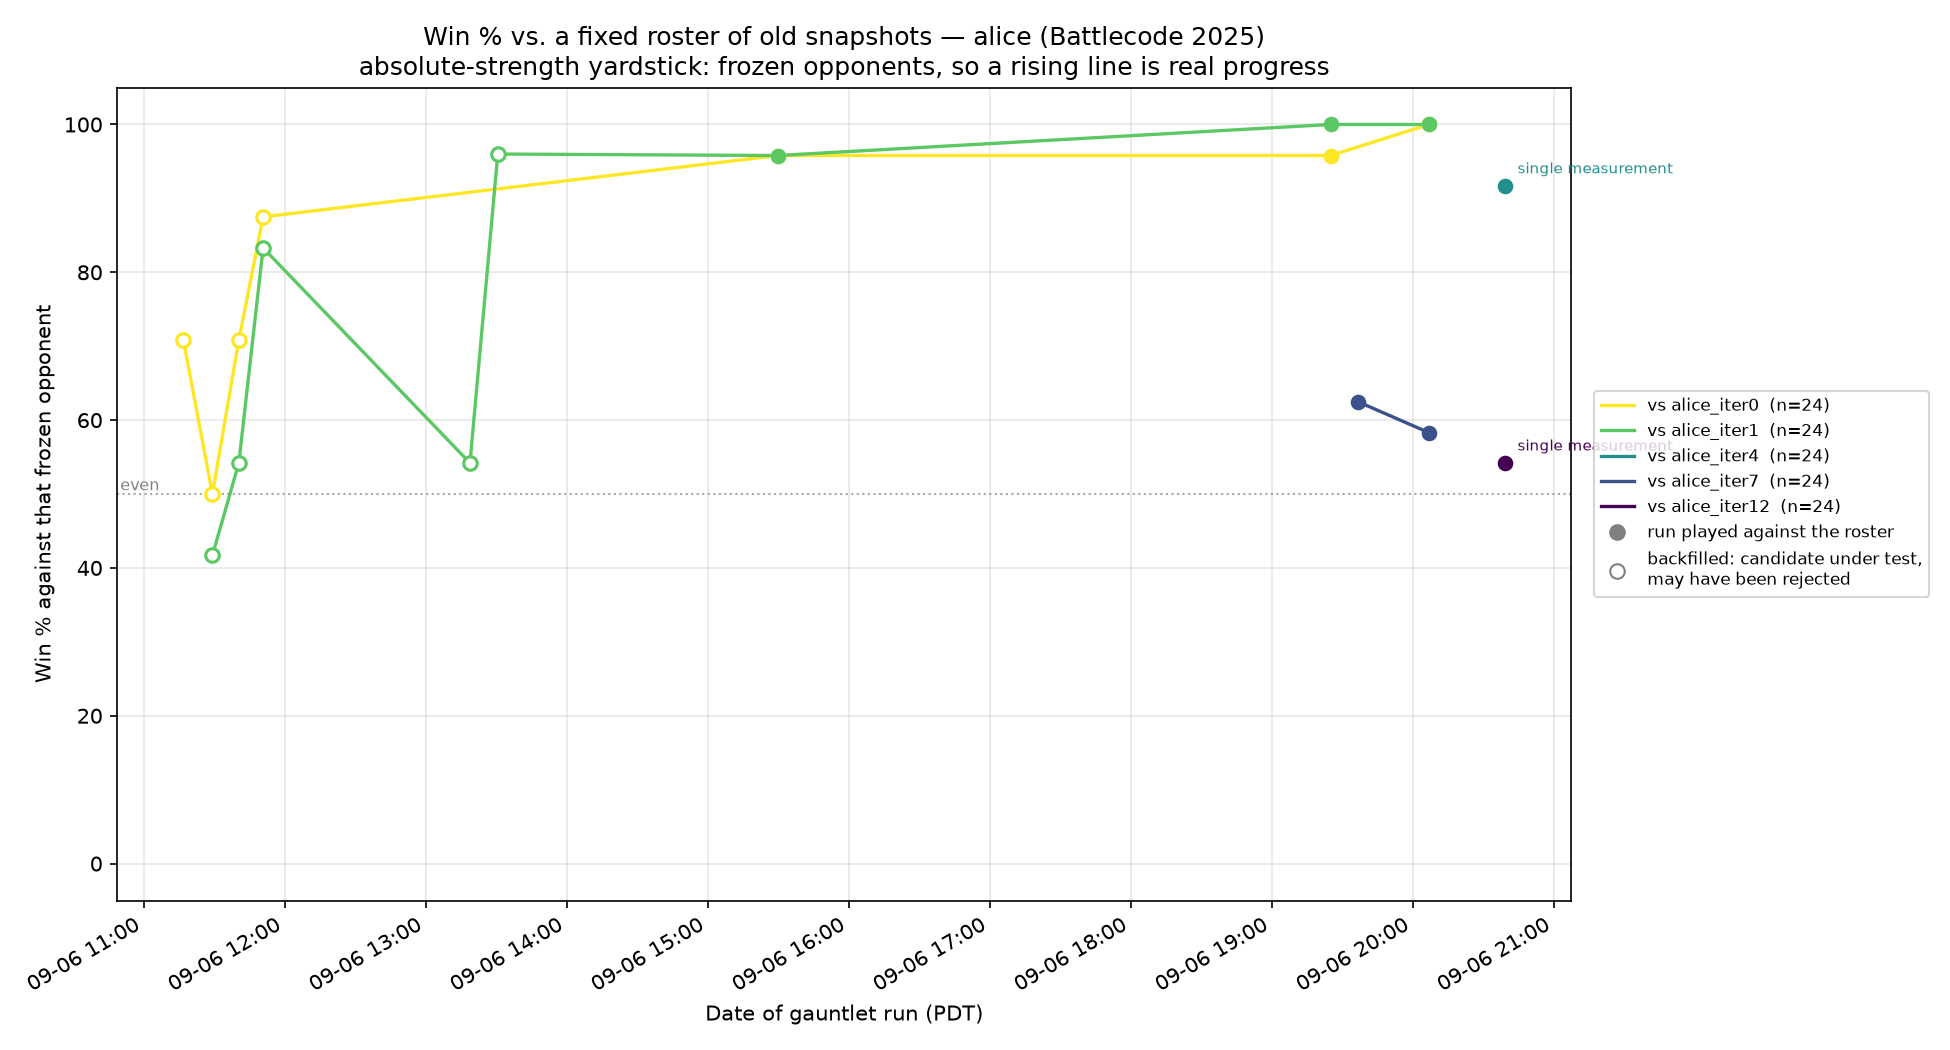
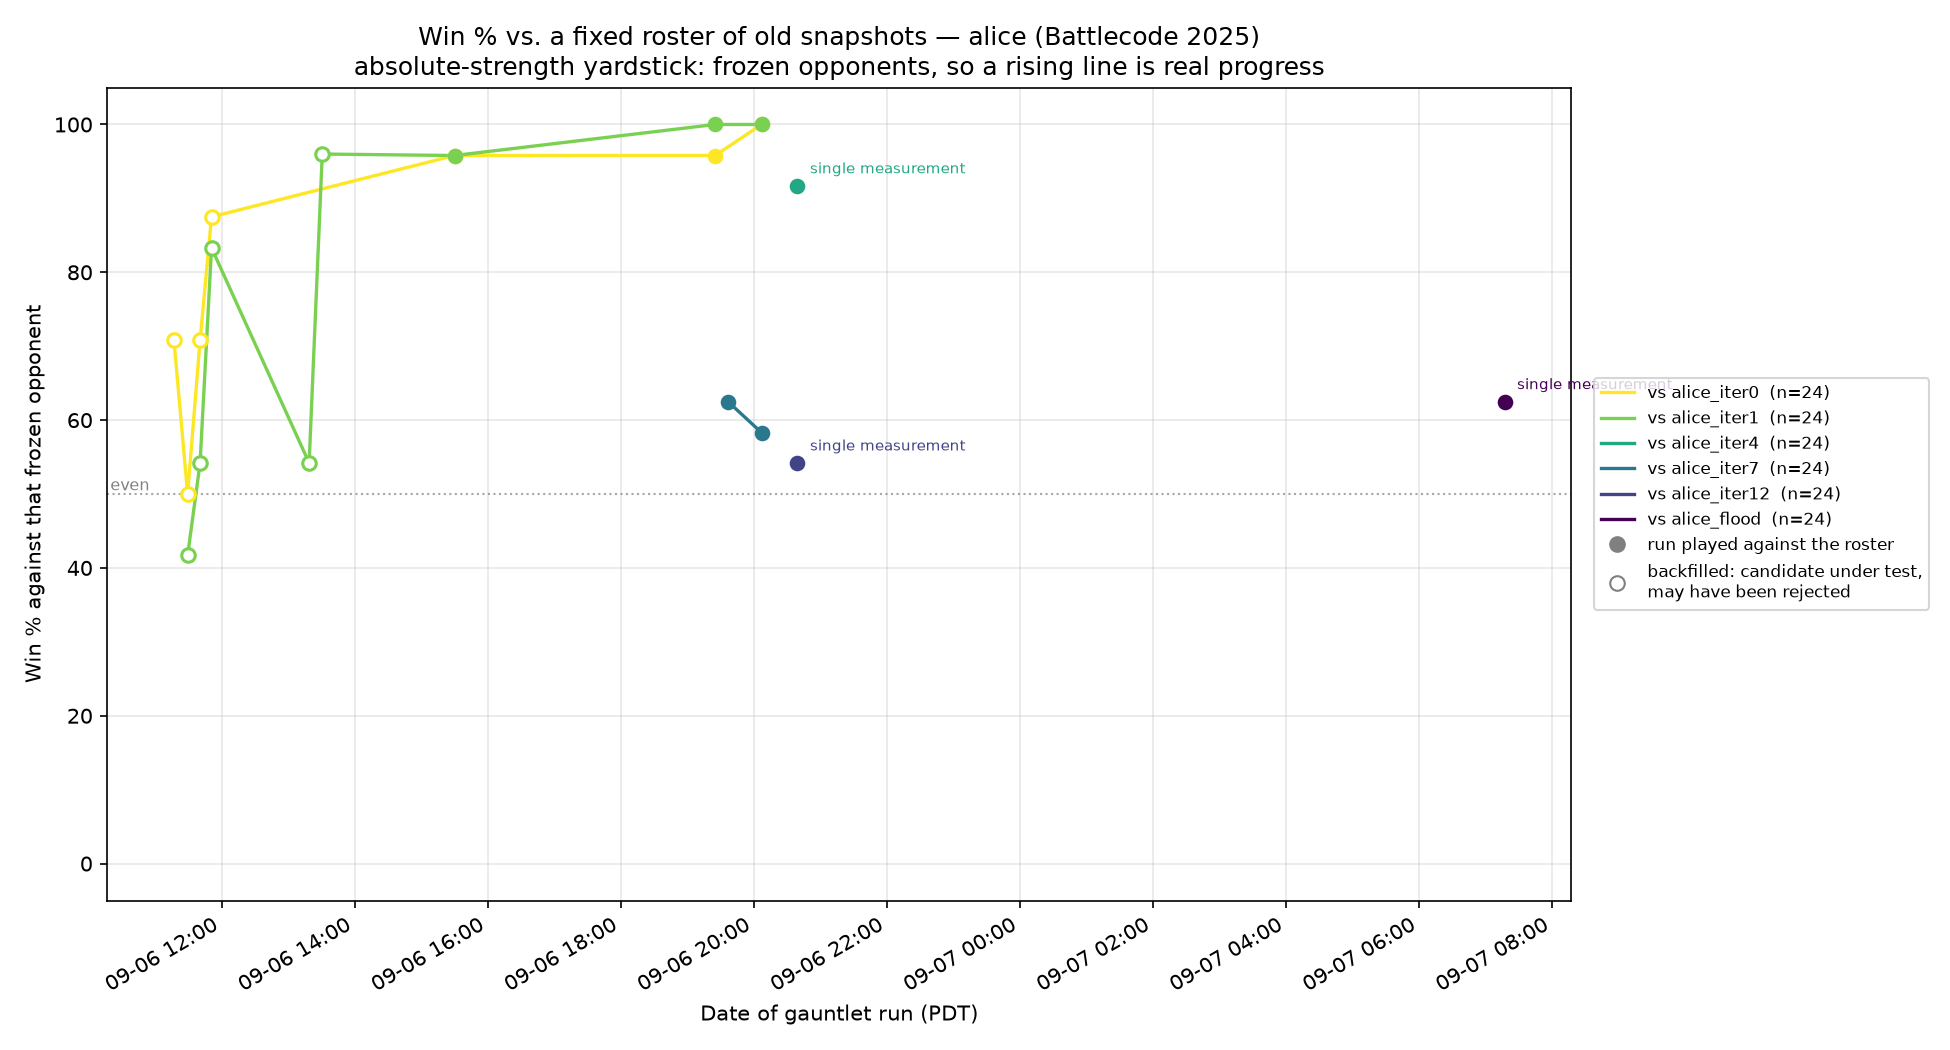
alice: alice_flood's first roster point refutes the story I built it to test
alice_iter14 beats alice_flood 15/24 (62.5%), swept 5-2, on iteration 19's
exact map sample.

I built the spender archetype (CHIP_RESERVE=0) because the Paintball
tournament replay showed bob at zero chips with 8 soldiers on round 50 while
alice sat at 1150 with 4. Measured, deleting the reserve costs 12.5 points.
That is a third independent line agreeing with iteration 16's flat dose and
iteration 18's finding that chips buy towers: bob is at zero AND fielding
eight, so bob's chips arrive faster rather than merely being spent sooner.
The treasury curve was a symptom I mistook for a cause.

The archetype is more useful for having refuted me: at 37.5% from its own
side it is a genuine peer by the classification rule, so it can resolve
future changes. Frozen, never retuned.

Closes 'lower CHIP_RESERVE' on three independent measurements.

Claude-Session: https://claude.ai/code/session_01AaaGzxRUmH5UDEVerTki8y

diff --git a/agents/alice/TRAINING_LOG.md b/agents/alice/TRAINING_LOG.md
@@ -4704,3 +4704,36 @@ census that shows *why* it works.
 roster point against `alice_iter14`. That measures the *old* baseline against
 the new archetype, so it is a separate instrument reading and gets its own
 commit when the run collates.
+
+## `alice_flood` — the archetype's first roster point, and it says the opposite
+## of what I built it to show
+
+Run `20260907-141653`, same 12-map sample as iteration 19's arms, so the
+comparison is exact.
+
+**`alice_iter14` beats `alice_flood` 15/24 (62.5%), swept 5–2.**
+
+I built `alice_flood` (`CHIP_RESERVE = 0`, nothing else changed) because the
+Paintball tournament replay showed bob at $0 with 8 soldiers on round 50 while
+alice sat at $1,150 with 4 and collapsed to 1 by round 75. The implied story was
+that my 1450-chip stall is a handicap no lineage-only instrument could see.
+
+**Measured, that story is wrong.** Removing the reserve entirely costs 12.5
+points against the build that keeps it. The reserve is worth something real, and
+this is a *third* independent line of evidence agreeing with iteration 16's flat
+dose (1450 / 1250 / 1000 all tied) and iteration 18's finding that chips buy
+towers and towers are the master variable. Spending chips down to zero does not
+reproduce what bob is doing — bob is at $0 *and* fielding eight soldiers, which
+means bob's chips are arriving faster, not merely being spent sooner. **The
+treasury curve was a symptom I mistook for a cause.**
+
+The archetype keeps its place in the roster regardless, and is now the more
+useful for it: at **37.5%** from its own side it is a genuine *peer* by the
+classification rule (30–90%), not a benchmark, so it can resolve future changes.
+It is frozen and will not be retuned.
+
+### Closed-directions ledger
+| direction | closed by | can re-open if |
+|---|---|---|
+| Removing or lowering `CHIP_RESERVE` | now three independent measurements: iteration 16's flat dose across 1450/1250/1000; iteration 18's dose showing chips buy towers; and `alice_flood` at **37.5%** with the reserve deleted outright | a change first raises chip *income* — the reserve is a symptom of income, not the constraint itself |
+| "The treasury sitting under the gate is why my army is small" | same — the spender fields no more army | — |
